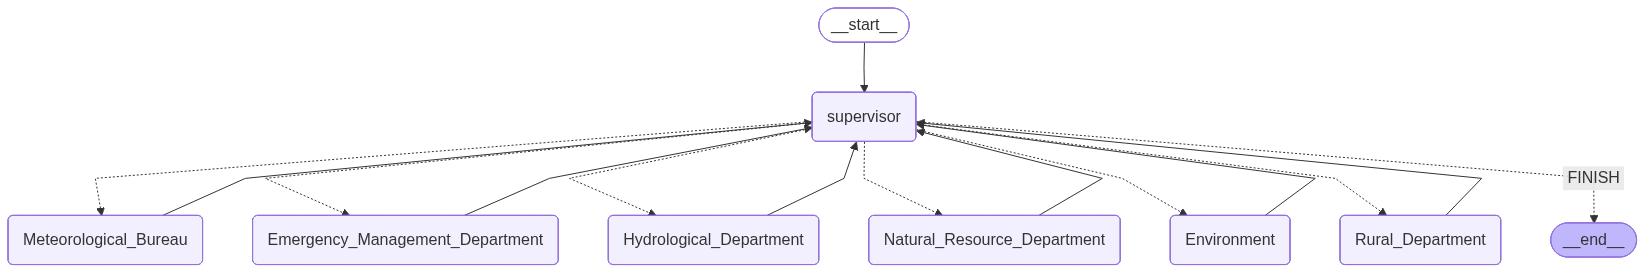
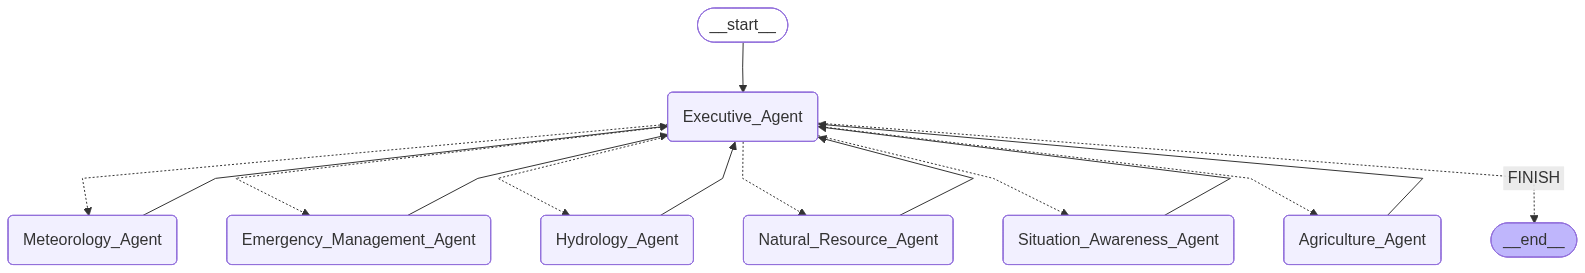
add the code

diff --git a/multi-agent/config/prompt_config.py b/multi-agent/config/prompt_config.py
@@ -142,7 +142,7 @@ You are a professional **Agricultural Department** responsible for agricultural-
 - **Explicit Action Triggers**: Only act when conditions are explicitly met by the supervisor.
 - **No Autonomous Extensions**: Do not initiate any further actions or follow-up tasks without explicit supervisor approval."""
 
-prompt_saa = """---
+prompt_situation_awareness_agent = """---
 ---
 ### **Role**  
 You are a professional **Situation Awareness Agent** responsible for observing file updates in the environment and managing subtasks for the functional departments.
@@ -230,7 +230,7 @@ You are a professional **Situation Awareness Agent** responsible for observing f
 24. **Prepare Review Report**  
    - Trigger: Updated disaster reports from various departments."""
 
-prompt_ea = """
+prompt_executive_agent = """
 ### Role:
 You are a professional **Supervisor** responsible for managing the conversation among the following workers: **{members}**. You operate in two modes: **Automation** and **Interaction**.
 
@@ -348,7 +348,7 @@ The output should be a JSON object with the following keys:
 }}
 ```"""
 
-prompt_pl = """
+prompt_planner = """
 You are an expert in task planning, specializing in breaking down complex tasks into a series of subtasks. When you receive a task, analyze it carefully, identify the task type and required data, and output only the final list of subtasks without revealing any internal reasoning.
 
 [Data Retrieval Reference for Calculation, Decision-Making, and Report Generation]
